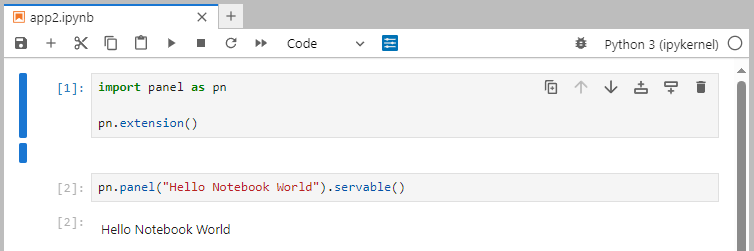
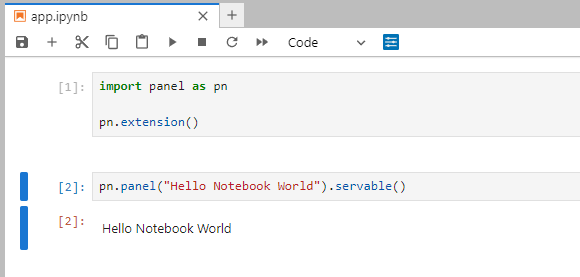
simplify and add markdown reference

Changed region(s): [[0.0, 0.0, 1.0, 1.0]]

diff --git a/doc/tutorials/beginner/panel_serve.md b/doc/tutorials/beginner/panel_serve.md
@@ -2,11 +2,11 @@
 
 In this section you will learn the basics of serving Panel apps:
 
-- serve your app with a command like `panel serve app.py` or `panel serve app2.ipynb`.
+- serve your Python script, Notebook or Markdown file with the commands `panel serve app.py`, `panel serve app.ipynb` or `panel serve app.md` respectively.
 - serve with *auto reload* by adding the flag `--autoreload`.
 - stop your server with `CTRL+C`.
 
-## Serve `.py` file
+## Serve a Python script
 
 The simplest Panel `.py` file could look like this:
 
@@ -77,9 +77,9 @@ The application will look like.
 
 Now stop the server by pressing `CTRL+C` one or more times in the terminal.
 
-## Serve an `.ipynb` notebook
+## Serve a notebook
 
-Copy the 2 code cells below into a clean notebook named `app2.ipynb`.
+Copy the 2 code cells below into a clean notebook named `app.ipynb`.
 
 ```python
 import panel as pn
@@ -91,7 +91,7 @@ pn.extension()
 pn.panel("Hello Notebook World").servable()
 ```
 
-Run the cells in the notebook and save it as `app2.ipynb` if you have not already done it.
+Run the cells in the notebook and save it as `app.ipynb` if you have not already done it.
 
 It should look like
 
@@ -101,45 +101,45 @@ It should look like
 The code refers to
 
 - `panel`: The Panel python package. Its a convention to import it as `pn`.
-- `pn.extension()`: Loads javascript dependencies and configures Panel.
-- `pn.panel(...)`: Creates a *displayable* Panel component.
+- `pn.extension()`: **Loads the [`pyviz_comms`](https://github.com/holoviz/pyviz_comms) notebook extension**, loads javascript dependencies and configures Panel.
+- `pn.panel(...)`: Creates a *displayable* Panel component. **The component can be displayed directly in the notebook**.
 - `.servable()`: Displays the component in a *server app*.
 :::
 
 Run the Panel server with
 
 ```bash
-panel serve app2.ipynb --autoreload
+panel serve app.ipynb --autoreload
 ```
 
 It will look like
 
 ```bash
-$ panel serve app2.ipynb --autoreload
+$ panel serve app.ipynb --autoreload
 2024-01-17 21:05:32,338 Starting Bokeh server version 3.3.3 (running on Tornado 6.4)
 2024-01-17 21:05:32,339 User authentication hooks NOT provided (default user enabled)
-2024-01-17 21:05:32,342 Bokeh app running at: http://localhost:5006/app2
+2024-01-17 21:05:32,342 Bokeh app running at: http://localhost:5006/app
 2024-01-17 21:05:32,342 Starting Bokeh server with process id: 42008
 ```
 
 :::{admonition} Note
-The command `panel serve app2.ipynb --autoreload` refers to:
+The command `panel serve app.ipynb --autoreload` refers to:
 
 - `panel`: the panel executable.
 - `serve`: the command you want panel to run
-- `app2.ipynb`: the file `app2.ipynb` you want to serve
+- `app.ipynb`: the file `app.ipynb` you want to serve
 - `--autoreload`: make the server restart after code changes. Use this for **development only**.
 :::
 
 In the output, you will find the line
 
 ```bash
-Bokeh app running at: http://localhost:5006/app2
+Bokeh app running at: http://localhost:5006/app
 ```
 
 That line shows the URL where your app is being served, in your local machine.
 
-Open your browser at [http://localhost:5006/app2](http://localhost:5006/app2).
+Open your browser at [http://localhost:5006/app](http://localhost:5006/app).
 
 The application will look like.
 
@@ -147,11 +147,19 @@ The application will look like.
 
 Now stop the server by pressing `CTRL+C` one or more times in the terminal.
 
+## Serve a Markdown document
+
+:::{admonition} Note
+The command `panel serve app.md` will serve a Markdown file as a live Panel app. You can use this feature if your use case is developing live, interactive documentation in Markdown files.
+
+Check out the [Write and serve apps in Markdown](../../how_to/editor/markdown.md) how-to guide for more information.
+:::
+
 ## Recap
 
 You can
 
-- serve your app with a command like `panel serve app.py` or `panel serve app2.ipynb`.
+- serve your Python script, Notebook or Markdown file with the commands `panel serve app.py`, `panel serve app.ipynb` or `panel serve app.md` respectively.
 - serve with *auto reload* by adding the flag `--autoreload`.
 - stop your server with `CTRL+C`.
 

diff --git a/doc/tutorials/index.md b/doc/tutorials/index.md
@@ -21,7 +21,7 @@ You will learn to develop and deploy amazing tools and apps that can be containe
 :link: beginner/panel_serve
 :link-type: doc
 
-Learn how to serve apps with `panel serve` and *autoreload*.
+Learn how to serve basic apps from a Python script, Notebook or Markdown document
 :::
 
 :::{grid-item-card} {octicon}`code;2.5em;sd-mr-1` Develop in an Editor
